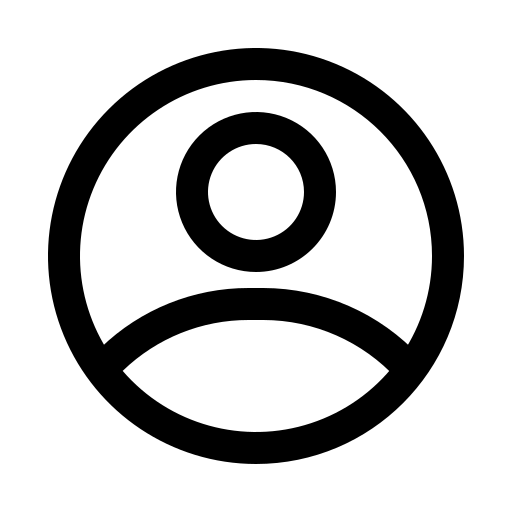
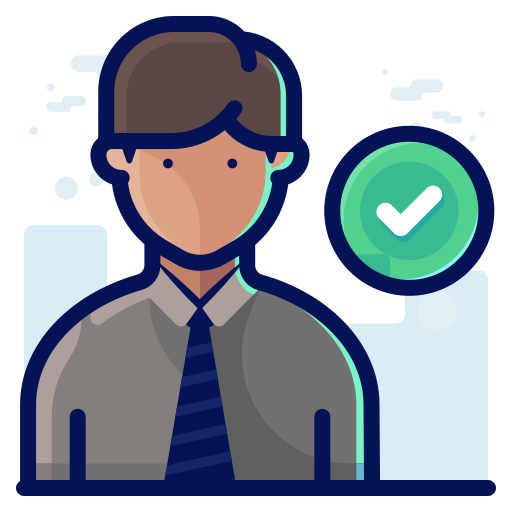
Changed default profile picture

diff --git a/src/template.html b/src/template.html
@@ -12,7 +12,7 @@
     <!-- Navigation -->
     <nav>
         <div id="navTitle">Welcome, User</div>
-        <div>
+        <div id="profile">
             <button id="newTaskButton">New Task</button>
             <img src="profileDefault.png" id="navProfile"></img>
         </div>

diff --git a/src/style.css b/src/style.css
@@ -45,6 +45,10 @@ nav > div > img:hover {
     cursor: pointer;
 }
 
+#profile {
+    margin-right: 10px;
+}
+
 /* Side Nav Panel */
 .sidenav {
     height: 100%;
